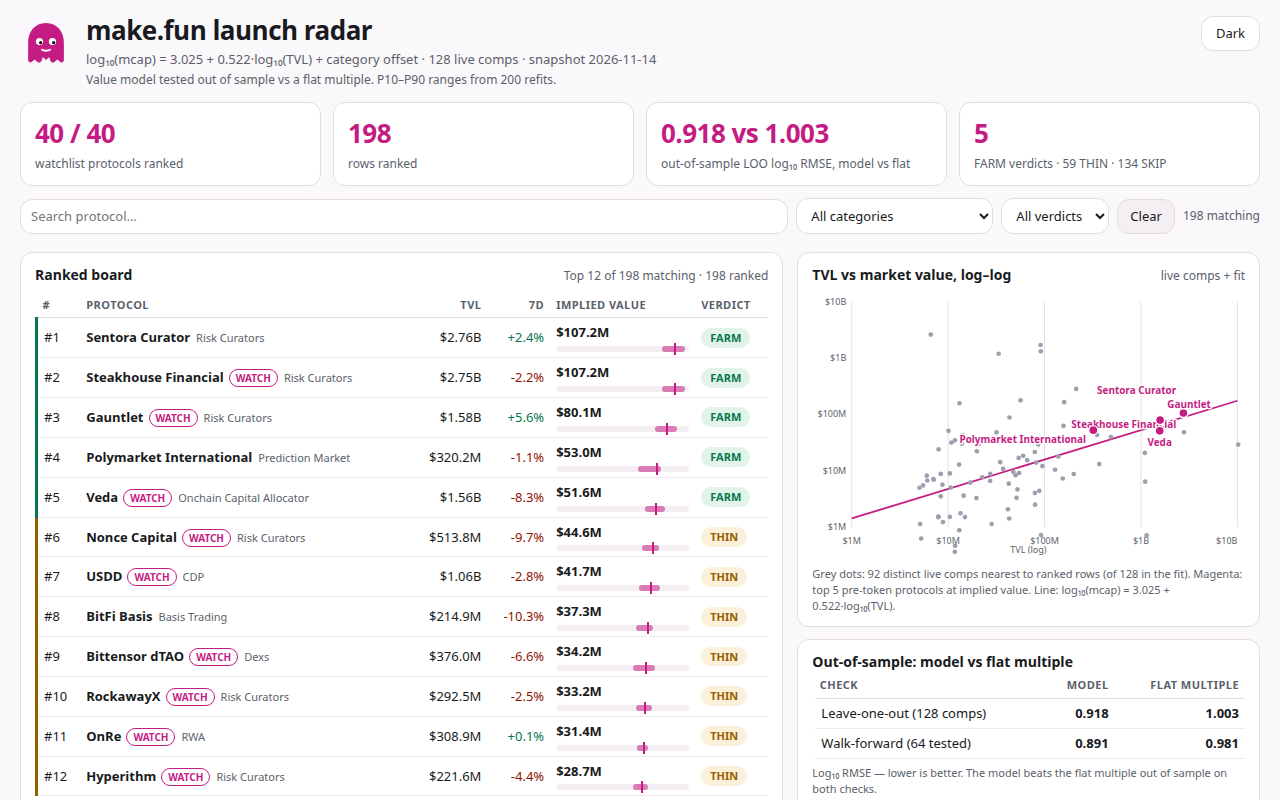
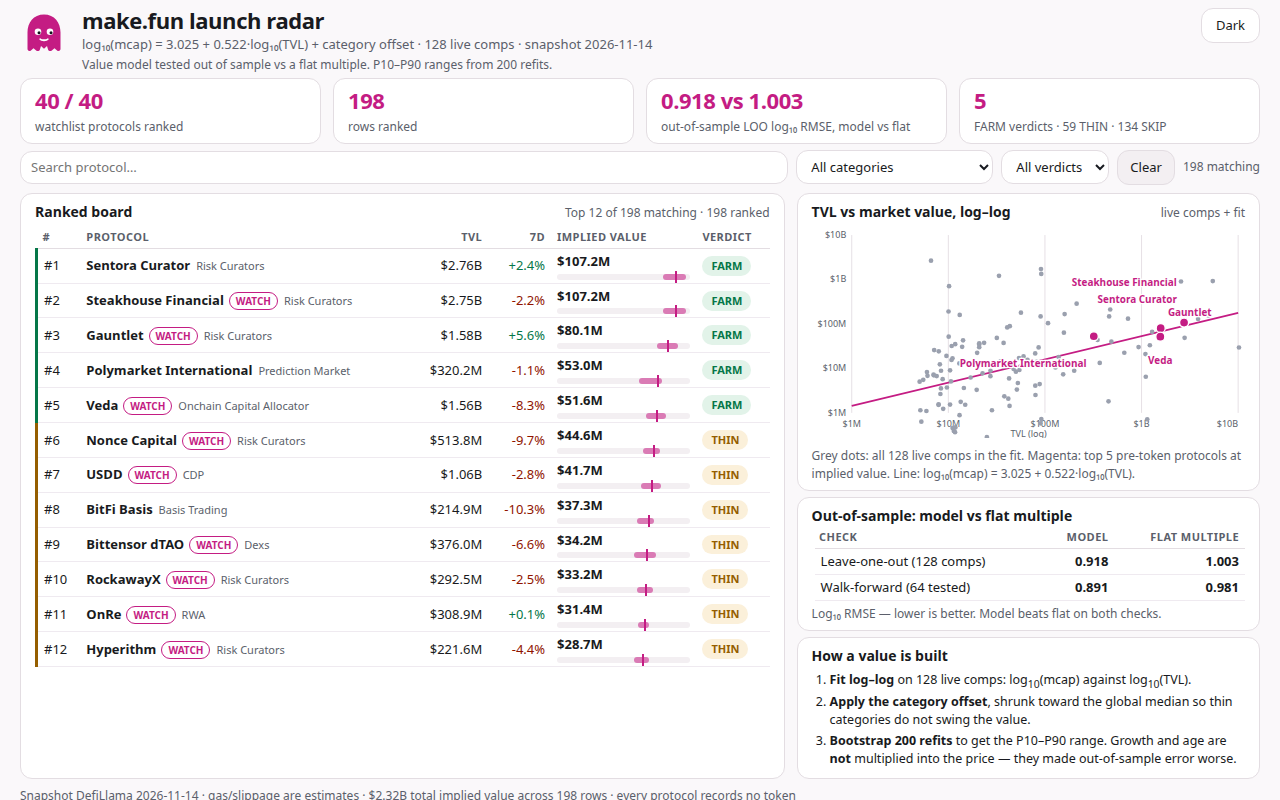
token-radar v2 dashboard fix: 128 live comps in scatter, non-overlapping top-5 labels, cover fits 1280x800

diff --git a/dashboard/app.css b/dashboard/app.css
@@ -9,42 +9,42 @@ html{font-size:14px}
 body{margin:0;background:var(--bg);color:var(--text);
 font-family:Inter,system-ui,-apple-system,"Segoe UI",sans-serif;
 font-variant-numeric:tabular-nums;line-height:1.45}
-h1{font-size:26px;line-height:1.15;margin:0;letter-spacing:-.02em}
+h1{font-size:22px;line-height:1.15;margin:0;letter-spacing:-.02em}
 h2{font-size:14px;margin:0}
 p{margin:0}
 .top{display:flex;justify-content:space-between;align-items:flex-start;gap:16px;
-padding:16px 20px 10px;max-width:1280px;margin:0 auto}
+padding:8px 20px 4px;max-width:1280px;margin:0 auto}
 .brand{display:flex;gap:14px;align-items:flex-start}
-.ghost{width:52px;height:52px;flex:none;margin-top:2px}
-.sub{font-size:13px;color:var(--muted);margin-top:4px;max-width:900px}
+.ghost{width:48px;height:48px;flex:none;margin-top:2px}
+.sub{font-size:13px;color:var(--muted);margin-top:2px;max-width:900px}
 .sub2{font-size:12px;color:var(--muted);margin-top:2px}
 #themeBtn{border:1px solid var(--border);background:var(--surface);color:var(--text);
 border-radius:12px;padding:7px 14px;font:inherit;font-size:13px;cursor:pointer}
 .kpis{display:grid;grid-template-columns:repeat(4,1fr);gap:12px;max-width:1280px;
-margin:4px auto 0;padding:0 20px}
-.kpi{background:var(--surface);border:1px solid var(--border);border-radius:12px;padding:12px 14px}
-.kpi b{display:block;font-size:26px;letter-spacing:-.02em;color:var(--magenta)}
+margin:0 auto;padding:0 20px}
+.kpi{background:var(--surface);border:1px solid var(--border);border-radius:12px;padding:6px 14px}
+.kpi b{display:block;font-size:22px;letter-spacing:-.02em;color:var(--magenta)}
 .kpi span{font-size:12px;color:var(--muted)}
-.toolbar{display:flex;gap:8px;align-items:center;max-width:1280px;margin:12px auto 0;padding:0 20px}
+.toolbar{display:flex;gap:8px;align-items:center;max-width:1280px;margin:6px auto 0;padding:0 20px}
 .toolbar input,.toolbar select{font:inherit;font-size:13px;color:var(--text);
-background:var(--surface);border:1px solid var(--border);border-radius:12px;padding:7px 10px}
+background:var(--surface);border:1px solid var(--border);border-radius:12px;padding:6px 10px}
 .toolbar input{flex:1;min-width:140px}
 .toolbar select{max-width:210px}
 #clearBtn{font:inherit;font-size:13px;background:var(--surface2);color:var(--text);
 border:1px solid var(--border);border-radius:12px;padding:7px 12px;cursor:pointer}
 .count{font-size:12px;color:var(--muted);white-space:nowrap}
-.chips{display:flex;gap:6px;flex-wrap:wrap;max-width:1280px;margin:6px auto 0;padding:0 20px}
+.chips{display:flex;gap:6px;flex-wrap:wrap;max-width:1280px;margin:2px auto 0;padding:0 20px}
 .chip{font-size:12px;background:var(--surface2);border:1px solid var(--magenta);
 color:var(--text);border-radius:999px;padding:3px 10px}
-.grid{display:grid;grid-template-columns:1.65fr 1fr;gap:14px;max-width:1280px;
-margin:12px auto 0;padding:0 20px}
-.card{background:var(--surface);border:1px solid var(--border);border-radius:12px;padding:12px 14px}
-.cardhead{display:flex;justify-content:space-between;align-items:baseline;gap:8px;margin-bottom:8px}
+.grid{display:grid;grid-template-columns:1.65fr 1fr;gap:12px;max-width:1280px;
+margin:6px auto 0;padding:0 20px}
+.card{background:var(--surface);border:1px solid var(--border);border-radius:12px;padding:8px 14px}
+.cardhead{display:flex;justify-content:space-between;align-items:baseline;gap:8px;margin-bottom:4px}
 .muted{font-size:12px;color:var(--muted)}
 table{width:100%;border-collapse:collapse;font-size:13px}
 th{font-size:11px;text-transform:uppercase;letter-spacing:.04em;color:var(--muted);
-text-align:left;padding:4px 6px;border-bottom:1px solid var(--border)}
-td{padding:5px 6px;border-bottom:1px solid var(--rowline);vertical-align:middle}
+text-align:left;padding:3px 6px;border-bottom:1px solid var(--border)}
+td{padding:3px 6px;border-bottom:1px solid var(--rowline);vertical-align:middle}
 tbody tr{cursor:pointer;border-left:3px solid transparent}
 tbody tr:hover{background:var(--surface2)}
 tbody tr:hover td:first-child{color:var(--magenta)}
@@ -59,18 +59,18 @@ border-radius:999px;padding:1px 6px;margin-left:5px;white-space:nowrap}
 .pill.THIN{color:var(--warn);background:var(--warnbg)}
 .pill.SKIP{color:var(--neg);background:var(--negbg)}
 .up{color:var(--pos)}.down{color:var(--neg)}
-.range{position:relative;height:6px;background:var(--surface2);border-radius:3px;margin-top:4px;min-width:110px}
+.range{position:relative;height:6px;background:var(--surface2);border-radius:3px;margin-top:3px;min-width:110px}
 .range i{position:absolute;top:0;height:6px;background:var(--magenta);border-radius:3px;opacity:.55}
 .range b{position:absolute;top:-3px;width:2px;height:12px;background:var(--magenta)}
 .rangelab{font-size:11px;color:var(--muted);margin-top:2px}
-.side{display:flex;flex-direction:column;gap:12px}
-.side .card{padding:12px 14px}
-.cap{font-size:11px;color:var(--muted);margin-top:6px}
+.side{display:flex;flex-direction:column;gap:6px}
+.side .card{padding:8px 14px}
+.cap{font-size:12px;color:var(--muted);margin-top:4px}
 .oos table{font-size:13px}
-.oos td,.oos th{padding:5px 6px}
+.oos td,.oos th{padding:3px 6px}
 .oos td.num{font-weight:650}
-.steps{margin:6px 0 0;padding-left:18px;font-size:12.5px}
-.steps li{margin-bottom:5px}
+.steps{margin:4px 0 0;padding-left:18px;font-size:12.5px}
+.steps li{margin-bottom:2px}
 .detail{max-width:1280px;margin:12px auto 0;padding:0 20px}
 .detail .card{padding:16px 18px}
 .detail h2{font-size:19px}
@@ -83,5 +83,14 @@ border-radius:999px;padding:1px 6px;margin-left:5px;white-space:nowrap}
 .comps{width:100%;font-size:13px}
 .close{float:right;font:inherit;font-size:12px;background:var(--surface2);color:var(--text);
 border:1px solid var(--border);border-radius:12px;padding:5px 10px;cursor:pointer}
-footer{max-width:1280px;margin:12px auto 0;padding:0 20px 16px;font-size:12px;color:var(--muted)}
+footer{max-width:1280px;margin:8px auto 0;padding:0 20px 10px;font-size:12px;color:var(--muted)}
 @media (max-width:900px){.grid{grid-template-columns:1fr}.kpis{grid-template-columns:repeat(2,1fr)}.dgrid{grid-template-columns:1fr}}
+@media (max-width:640px){
+.top,.kpis,.toolbar,.chips,.grid,.detail,footer{padding-left:12px;padding-right:12px}
+h1{font-size:22px}.ghost{width:44px;height:44px}
+.toolbar{flex-wrap:wrap}.toolbar input{flex:1 1 100%}.toolbar select{max-width:none;flex:1 1 40%}
+#boardTable th:nth-child(4),#boardTable td:nth-child(4){display:none}
+#boardTable{font-size:12px}.pcat{white-space:normal}
+.range{min-width:70px}
+.kpi b{font-size:22px}
+}

diff --git a/dashboard/app.js b/dashboard/app.js
@@ -48,16 +48,17 @@
   $('oosBody').innerHTML = '<table><thead><tr><th>Check</th><th class="num">Model</th><th class="num">Flat multiple</th></tr></thead><tbody>' +
     '<tr><td>Leave-one-out (' + val.looTested + ' comps)</td><td class="num">' + fmt3(val.looModel) + '</td><td class="num">' + fmt3(val.looFlat) + '</td></tr>' +
     '<tr><td>Walk-forward (' + val.wfTested + ' tested)</td><td class="num">' + fmt3(val.wfModel) + '</td><td class="num">' + fmt3(val.wfFlat) + '</td></tr>' +
-    '</tbody></table><p class="cap">Log\u2081\u2080 RMSE — lower is better. The model beats the flat multiple out of sample on both checks.</p>';
+    '</tbody></table><p class="cap">Log\u2081\u2080 RMSE — lower is better. Model beats flat on both checks.</p>';
 
-  /* ---- scatter: 92 distinct live comps (nearest comps in the data) + fit line + top 5 ---- */
-  var seen = {}, comps = [];
-  R.rows.forEach(function (r) {
-    (r.nearest_comps || []).forEach(function (c) {
-      if (!seen[c.slug]) { seen[c.slug] = 1; comps.push(c); }
+  /* ---- scatter: all 128 live comps + fit line + top 5 ---- */
+  var comps = (R.liveComps && R.liveComps.length) ? R.liveComps : (function () {
+    var seen2 = {}, out = [];
+    R.rows.forEach(function (r) {
+      (r.nearest_comps || []).forEach(function (c) { if (!seen2[c.slug]) { seen2[c.slug] = 1; out.push(c); } });
     });
-  });
-  var W = 480, H = 290, ML = 44, MR = 8, MT = 10, MB = 30;
+    return out;
+  })();
+  var W = 480, H = 235, ML = 44, MR = 8, MT = 10, MB = 28;
   function X(l) { return ML + (l - 6) / 4 * (W - ML - MR); }
   function Y(l) { return H - MB - (l - 6) / 4 * (H - MT - MB); }
   var ticks = [6, 7, 8, 9, 10], tlab = ['$1M', '$10M', '$100M', '$1B', '$10B'];
@@ -71,11 +72,14 @@
   svg += '<line x1="' + X(6) + '" y1="' + Y(fit.intercept + fit.slope * 6) + '" x2="' + X(10) + '" y2="' + Y(fit.intercept + fit.slope * 10) +
     '" stroke="#C41C83" stroke-width="2"/>';
   comps.forEach(function (c) {
-    var mcap = c.multiple * c.tvl_usd;
-    svg += '<circle cx="' + X(Math.log10(c.tvl_usd)).toFixed(1) + '" cy="' + Y(Math.log10(mcap)).toFixed(1) + '" r="2.6" fill="#9AA0AE"><title>' + esc(c.name) + ' — ' + money(mcap) + '</title></circle>';
+    var mcap = c.mcap_usd || (c.multiple * c.tvl_usd);
+    svg += '<circle cx="' + X(Math.log10(c.tvl_usd)).toFixed(1) + '" cy="' + Y(Math.log10(mcap)).toFixed(1) + '" r="2.6" fill="#9AA0AE"><title>' + esc(c.name || c.slug) + ' — ' + money(mcap) + '</title></circle>';
   });
-  /* Top-5 labels are staggered: Sentora + Steakhouse share (nearly) one point. */
-  var lab = { 'sentora-curator': [-8, -21, 'end'], 'steakhouse-financial': [-8, 17, 'end'], 'gauntlet': [8, -13, 'start'], 'polymarket-international': [-8, 14, 'end'], 'veda': [0, 17, 'middle'] };
+  /* Top-5 labels, one per vertical slot so none overlap a dot or each other:
+     Steakhouse above Sentora (they share one point), Sentora below it,
+     Gauntlet above-right, Polymarket below-left (clear of the fit line),
+     Veda below its dot. */
+  var lab = { 'sentora-curator': [-8, -22, 'end'], 'steakhouse-financial': [-8, -40, 'end'], 'gauntlet': [8, -14, 'start'], 'polymarket-international': [-8, 34, 'end'], 'veda': [0, 30, 'middle'] };
   R.rows.slice(0, 5).forEach(function (r) {
     var cx = X(Math.log10(r.tvl_usd)), cy = Y(Math.log10(r.implied_value_usd)), d = lab[r.slug] || [8, -8, 'start'];
     svg += '<circle cx="' + cx.toFixed(1) + '" cy="' + cy.toFixed(1) + '" r="5" fill="#C41C83" stroke="#fff" stroke-width="1.5"/>' +
@@ -83,8 +87,7 @@
   });
   svg += '</svg>';
   $('scatter').innerHTML = svg;
-  $('scatterCap').textContent = 'Grey dots: ' + comps.length + ' distinct live comps nearest to ranked rows (of ' + fit.nComps +
-    ' in the fit). Magenta: top 5 pre-token protocols at implied value. Line: log\u2081\u2080(mcap) = ' + fmt3(fit.intercept) + ' + ' + fmt3(fit.slope) + '·log\u2081\u2080(TVL).';
+  $('scatterCap').textContent = 'Grey dots: all ' + fit.nComps + ' live comps in the fit. Magenta: top 5 pre-token protocols at implied value. Line: log\u2081\u2080(mcap) = ' + fmt3(fit.intercept) + ' + ' + fmt3(fit.slope) + '·log\u2081\u2080(TVL).';
 
   /* ---- filters + board table ---- */
   readParams(); /* before building the selects, so hash/query filters show as selected */
